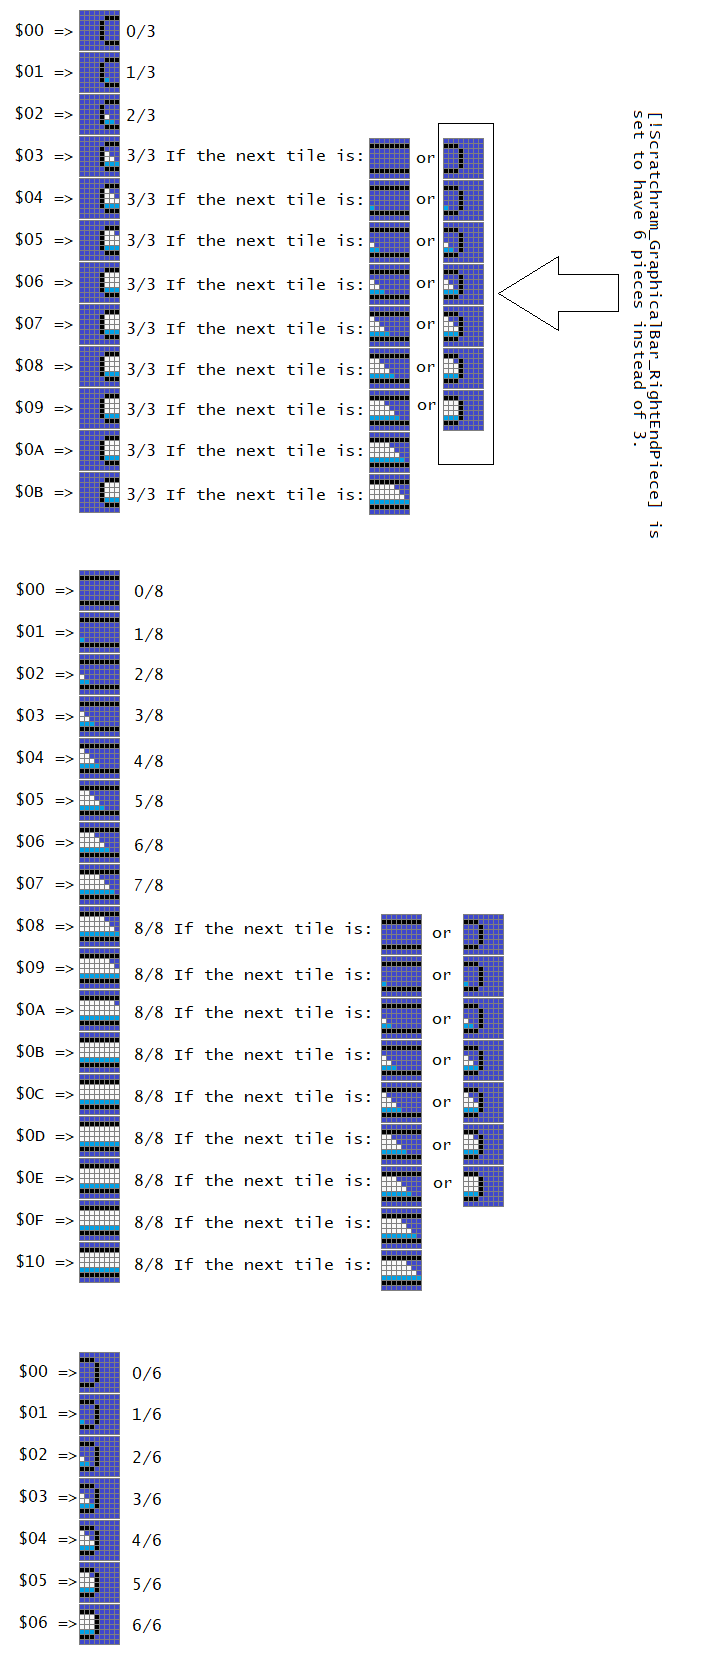
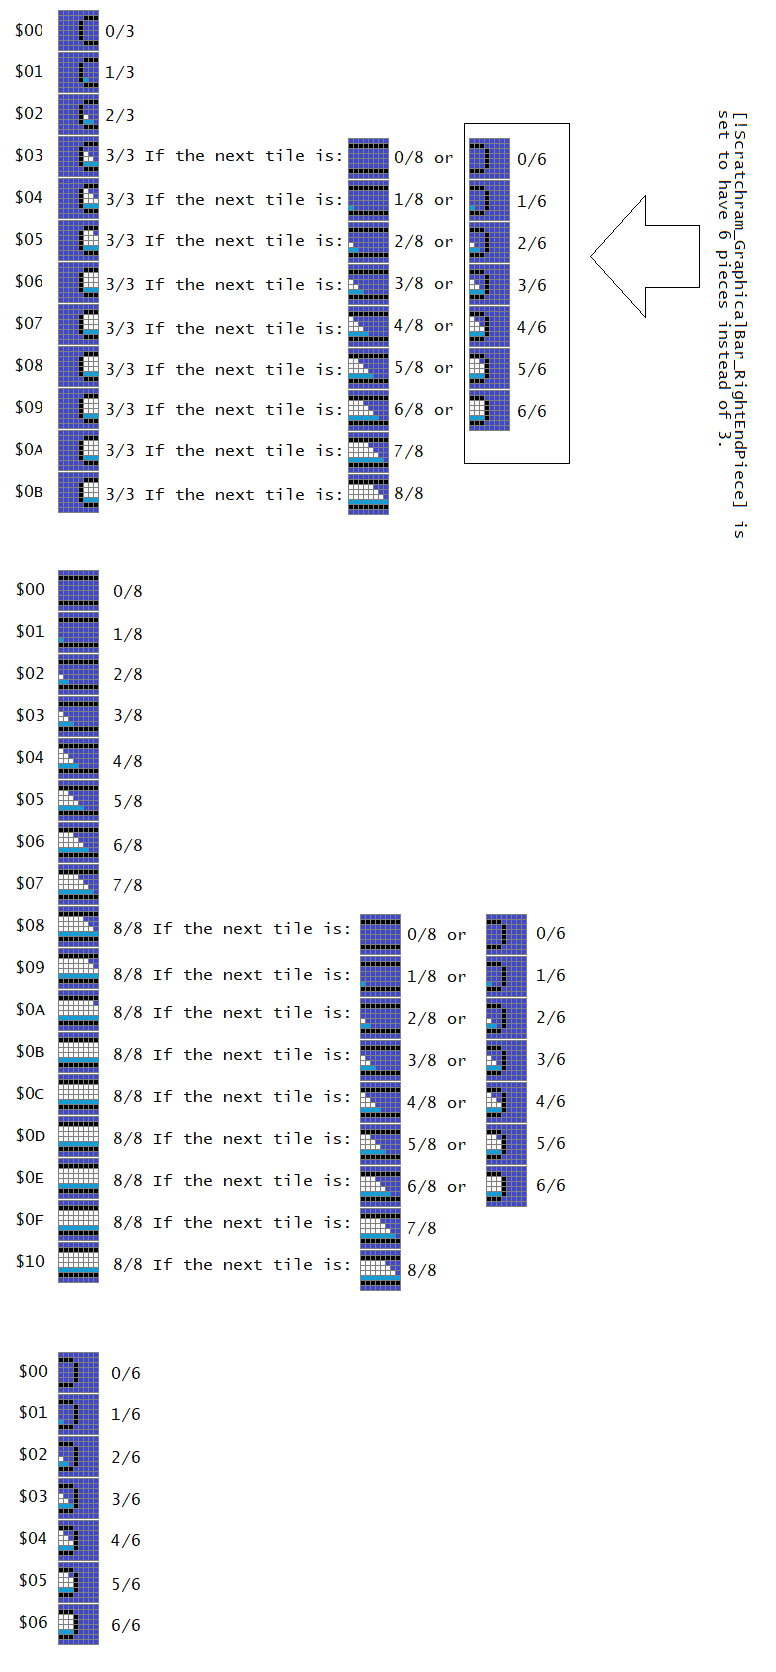
explained better
Some Images are now redundant.

diff --git a/readme_files/FillEdgeCrossingTileBorder.html b/readme_files/FillEdgeCrossingTileBorder.html
@@ -21,26 +21,18 @@
 	</head>
 <body>
 <a href="../GraphicalBar_ReadmeDocumentation.html#FillEdgeCrossingTileBorder">Back</a>
-<hr>
-<h2>Table of contents</h2>
-<ul>
-	<li><a href="#SlantedEdge" id="TOC_SlantedEdge">Slanted edge</a></li>
-	<li><a href="#OutlineEdge" id="TOC_OutlineEdge">Outlined edge</a></li>
-</ul>
+
+<center><h1>Fill edge documentation</h1></center>
+
 <p>Note: This does not support double-bar's &ldquo;Using separate graphics&rdquo;, as having <i>even more</i> tiles would eat up a lot of tile space.<p>
 
 <p>To have this gimmick is very similar to the basic graphical bar code, but you use <kbd>ConvertBarFillAmountToTilesEdgeOverMultipleTiles</kbd> instead of <kbd>ConvertBarFillAmountToTiles</kbd>.
 Don't forget to insert the graphics accordingly.</p>
 
 <p>I've provide tables in the exgraphics subfolders (the HTML files) so you don't have to manually enter the tile number for each fill amount.</p>
-<hr>
-<h1><a href="#TOC_SlantedEdge" id="SlantedEdge">^</a>Slanted edge</h1>
-<p>Perhaps viewing this image will give you a hint on how to have a slanted-edge graphical bar:<br>
-<img src="DiagonalFillEdge.png"><br>
-Here, the numbers to the left of each tile indicates an index of the tile array, while the numbers on the right are the fill amount. Combine this image with the one below:<br>
-<img src="DiagonalFillEdge2.png"><br>
-and you get the idea on how it works. To check adjacent tiles to determine what tile to use, you would take the current tile byte's fill amount, <b><abbr title="If there is no next tile after the last tile, provided you disabled the right end, it would assume to add by 0 as to avoid adding by a garbage value.">and then add by the amount of the next tile byte</abbr></b>. The total
-is then the index of the tile to use, for example:
+
+<p>All of these uses the same subroutine (but different tile numbers and the number of values in the table) using <kbd>ConvertBarFillAmountToTilesEdgeOverMultipleTiles</kbd> (instead of using <kbd>ConvertBarFillAmountToTiles</kbd>). The way this whole thing
+works is by taking the fill amount of a given tile byte, then add by the amount of the next tile byte (if that given tile byte is the last tile, then don't add by anything), the sum is now what tile to use for that given tile byte:
 <table>
 <tr><th>Fill byte table (relative address/example)</th><th>Tile byte type</th><th>Fill amount</th><th>Fill amount maximum</th><th>Index to use</th></tr>
 <tr><td>+0/<kbd>$7F844A</kbd></td><td><font color="cyan">Left end</font></td><td bgcolor="orange"><kbd>$03</kbd></td><td><kbd>$03</kbd></td><td><kbd>$04</kbd> (This fill amount, plus 1 from next tile amount)</td></tr>
@@ -53,18 +45,22 @@ is then the index of the tile to use, for example:
 <tr><td>+7/<kbd>$7F8451</kbd></td><td><font color="green">Middle 7</font></td><td bgcolor="grey"><kbd>$00</kbd></td><td><kbd>$08</kbd></td><td><kbd>$00</kbd> (This fill amount, plus 0 of the next tile amount)</td></tr>
 <tr><td>+8/<kbd>$7F8452</kbd></td><td><font color="red">Right end</font></td><td bgcolor="grey"><kbd>$00</kbd></td><td><kbd>$06</kbd></td><td><kbd>$00</kbd> (use only this tile's fill amount for indexing, don't add by a value after here)</td></tr>
 </table>
-And now the tile number index to use is <kbd>$04</kbd> (because <kbd>$03</kbd> from the left end, plus <kbd>$01</kbd> of the middle 1, equals <kbd>$04</kbd>, which then that becomes the index of what tile to use).
-</p>
 
-<p>Duplicate tile numbers on the last n values in the table are needed since the table covers all possible values of the total (the number of items in the table must have <kbd>NumberOfPiecesInCurrentTile + <abbr title="Which tile byte type after the current has the highest number of pieces.">MaxNumberOfPiecesInNextTile</abbr> + 1</kbd>).
-If there are 2+ possible different tiles byte types after the current tile (such as middle or right end after the left end), you would take the number of whichever has the highest maximum (in this case, Middle have 8 pieces, and right end have 6 pieces,
-therefore you take the 8 and not the 6).<br><br>
+This also means that duplicate tiles may be needed on the last n items in the tile table, because this covers all possible indexes from <kbd>$00</kbd> to <kbd>NumberOfPiecesOfGivenTile + <abbr title="Any number of pieces of whichever tile after this have the highest number of pieces, for example, if the next tile is a middle with 8 pieces or the right end have 6 pieces, you would take the 8 and not the 6.">HighestNumberOFPiecesOfNextTile</kbd>.
+If you happen to have fewer number of values in the table than needed, garbage tiles will appear as soon as the next tile's fill amount is at or higher than a certain amount.</p>
 
-Looking at the previous example image above, left end have 3 pieces, middle have 8 pieces, and right end have 6. Left end's table should have 12 (Index numbered from $00 to $0B, 3 + 8 + 1 = 12) items in the table (not 10 from 3 + <abbr title="Right end&#39;s number of pieces is less than middle&#39;s 8 pieces">6</abbr> + 1), middle
-should have 17 (Index numbered from $00 to $10, 8 + 8 + 1 = 17) items in table (not 15 by 8 + <abbr title="Right end&#39;s number of pieces is less than Middle&#39;s 8 pieces">6</abbr> + 1.)</p>
+<h2>Quick jumps</h2>
+<ul>
+	<li><a href="#SlantedEdge" id="TOC_SlantedEdge">Slanted edge</a></li>
+	<li><a href="#OutlineEdge" id="TOC_OutlineEdge">Outlined edge</a></li>
+	<li><a href="#RoundedEdge" id="TOC_RoundedEdge">RoundedEdge</a></li>
+</ul>
+<hr>
+<h1><a href="#TOC_SlantedEdge" id="SlantedEdge">^</a>Slanted edge</h1>
+<img src="DiagonalFillEdge.png"><br>
 <hr>
 <h1><a href="#TOC_OutlineEdge" id="OutlineEdge">^</a>Outlined edge</h1>
-<p>Perhaps you wanted a bar that have an outline around the filled region of the bar to avoid &ldquo;cutoff&rdquo;. You could have the bar be like this if you don't want to check adjacent tile bytes:<br>
-<img src="OutLineEach8x8Tile.png"></p>
-<p>However, you would have outlines in places you don't need to. So how do we have outline <b>only</b> where the fill ends at? Well, this is gonna be similar to how the slanted fill edge works:<br>
 <img src="OutLineOnlyFillEdge.png"></p>
+<hr>
+<h1><a href="#TOC_RoundedEdge" id="RoundedEdge">^</a>Rounded edge</h1>
+<img src="RoundedFillEdge.png">
